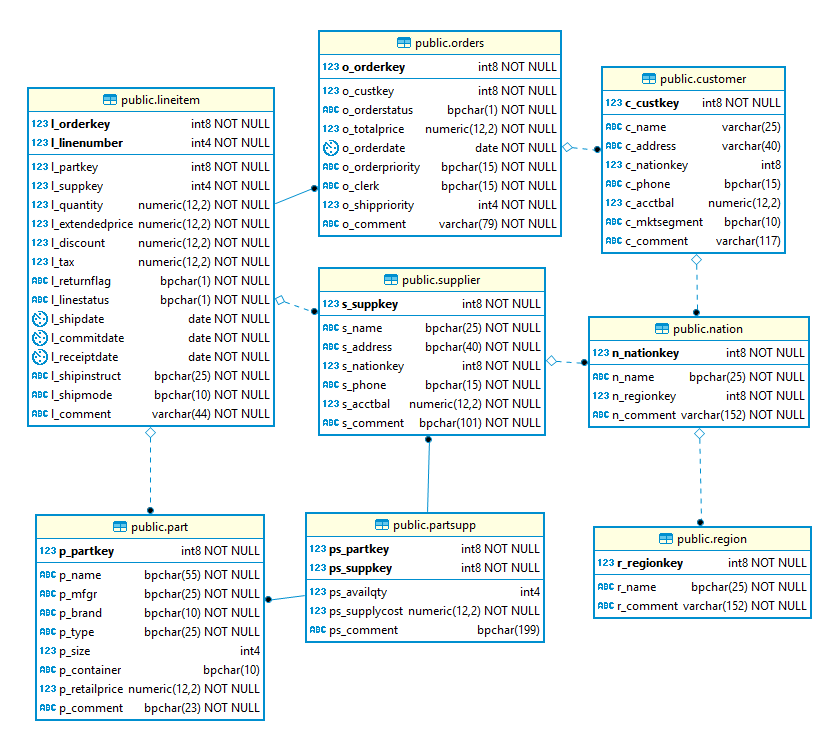
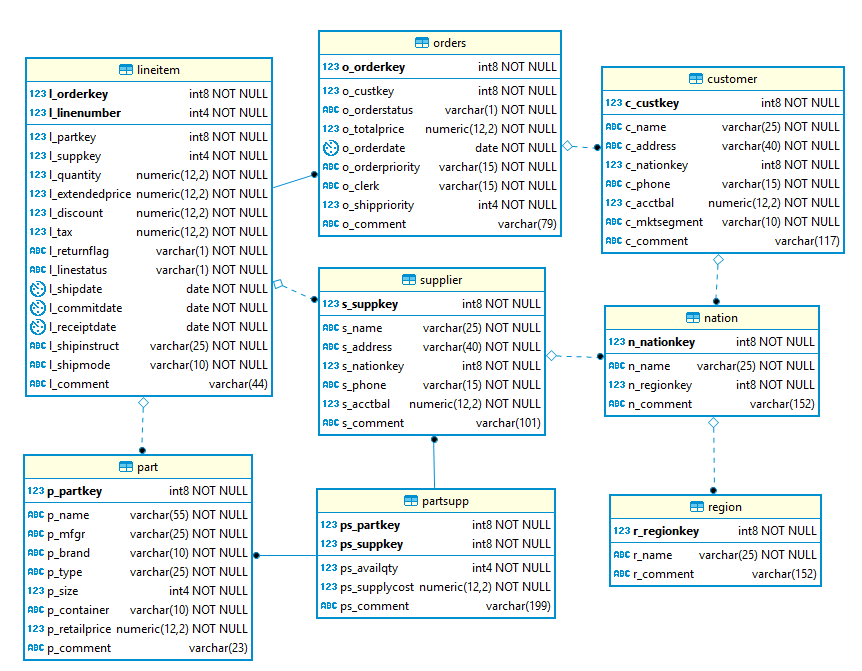
Updated ERD, reorganize analysis, add first round of hints.

diff --git a/README.md b/README.md
@@ -31,10 +31,14 @@ user is ``awsuser`` and the password is ``H0ppyIPA``. They
 use a cluster of four (4) dc2.large nodes in production. The snapshot and most recent source data is in the Ohio 
 region. The first thing you do is create a new cluster by restoring the snapshot.  
 
-## The Intern's Design
+## Current Design
 
-While waiting for the cluster to become available, you take a few minutes to review Johnny's design. The table create 
-statements he used are shown below:
+While waiting for the cluster to become available, you take a few minutes to review the Entity Relationship Diagram(ERD)
+Liz, the data architect provided. 
+
+![Marketing Data Warehouse ERD](images/Marketing-ERD.png "Marketing Data Warehouse ERD")
+
+Next, you compare the ERD above with the table create statements Johnny prepared shown below:
 ```sql
 CREATE TABLE region
 (
@@ -167,10 +171,6 @@ compupdate off delimiter '|' ;
     
 ## Initial Analysis
 
-The data architect has provided this entity relationship diagram (ERD):
-
-![Marketing Data Warehouse ERD](images/Marketing-ERD.png "Marketing Data Warehouse ERD")
-
 ### Benchmarks
 
 Before making any changes, you want to understand the current state so you can report an accurate before and after 
@@ -187,18 +187,6 @@ partsupp         |             72 |             |          |
 region           |              5 |             |          |
 supplier         |              7 |             |          |
 **TOTALS**       |      **1,955** |             |          | 
-
-### Best Practices Analysis
-
-1. Which [table design best practices](https://docs.aws.amazon.com/redshift/latest/dg/c_designing-tables-best-practices.html) 
-did Johnny follow?
-
-1. Which did he miss?
-
-1. Which [table loading best practices](https://docs.aws.amazon.com/redshift/latest/dg/c_loading-data-best-practices.html) 
-did Johnny follow?
-
-1. Which did he miss?
 
 ### Sample Queries
 
@@ -294,14 +282,26 @@ limit 20;
 1. Record the execution time of each query, ignoring the first result which includes query compile time, 
 making sure to disable caching
 
-| Query   | Execution time (sec) |
-|---------|---------------------:|
-| Query 1 | 
-| Query 2 | 
-| Query 3 | 
-| **TOTAL** | 
+    | Query   | Execution time (sec) |
+    |---------|---------------------:|
+    | Query 1 | 
+    | Query 2 | 
+    | Query 3 | 
+    | **TOTAL** | 
 
 1. Record the execution plan for each query
+
+### Best Practices Analysis
+
+1. Which [table design best practices](https://docs.aws.amazon.com/redshift/latest/dg/c_designing-tables-best-practices.html) 
+did Johnny follow?
+
+1. Which did he miss?
+
+1. Which [table loading best practices](https://docs.aws.amazon.com/redshift/latest/dg/c_loading-data-best-practices.html) 
+did Johnny follow?
+
+1. Which did he miss?
 
 ## Apply Table Design Best Practices
 
@@ -314,6 +314,38 @@ practices
  
 
     ```
+
+<details>
+ <summary>Hint</summary>
+ <ul><li>Every field on the ERD except for the comments has <code>NOT NULL</code>. How does Redshit treat the NOT NULL constraint?</li></ul>
+</details>
+
+<details>
+ <summary>Hint</summary>
+ <ul><li>The ERD shows one or more primary keys for each table. 
+ How does Redshit treat primary keys?</li></ul>
+</details>
+
+<details>
+ <summary>Hint</summary>
+ <ul><li>The ERD shows how tables relate to each other based on foreign keys. 
+ How does Redshit treat foreign keys?</li></ul>
+</details>
+
+<details>
+ <summary>Hint</summary>
+ <ul><li>Every column in the DDL has, <code>ENCODE RAW</code>. What does this do?</li></ul>
+</details>
+
+<details>
+ <summary>Hint</summary>
+ <ul><li>Do the character field sizes match the ERD?</li></ul>
+</details>
+
+<details>
+ <summary>Hint</summary>
+ <ul><li>Did Johnny Do the character field sizes match the ERD?</li></ul>
+</details>
 
 1.  Cite best practices and provide data to support your choices for sort keys and distribution styles assuming 
 marketing wants to balance storage and load times with good query performance. 
